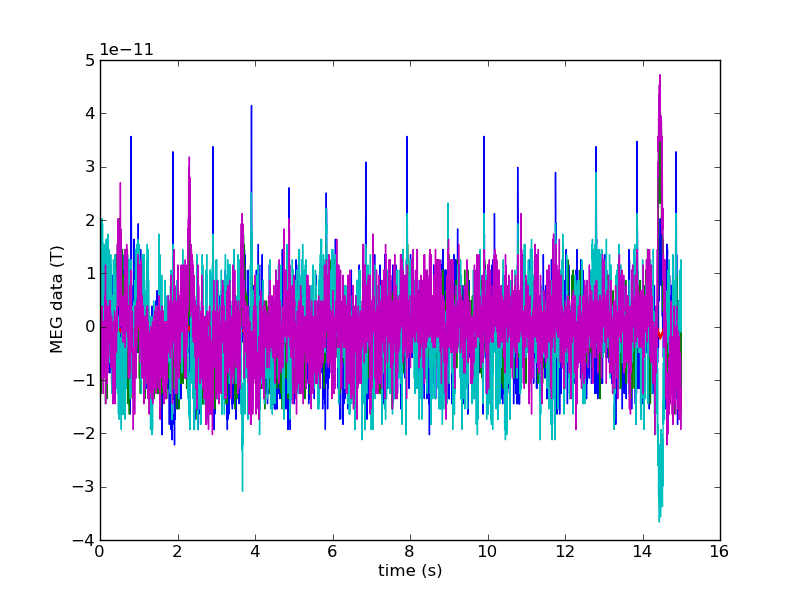
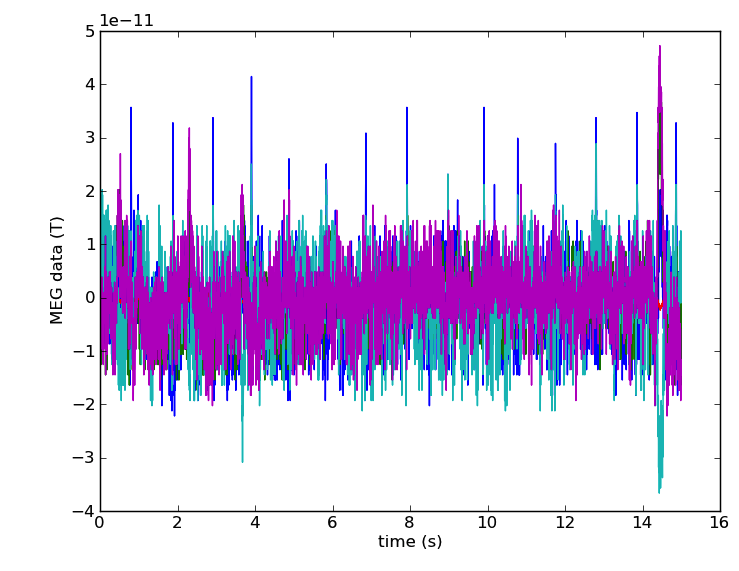
...

Changed region(s): [[0.0622, 0.0298, 0.9959, 0.9825]]

diff --git a/index.rst b/index.rst
@@ -120,21 +120,21 @@ Reading and Plotting Raw Data
 
 .. sourcecode:: python
 
+    import pylab as pl
     import mne
     raw = mne.fiff.Raw(fname)
 
     picks = mne.fiff.pick_types(raw.info, meg='mag')
-
     some_picks = picks[:5]  # take 5 first
     start, stop = raw.time_to_index(0, 15)  # read the first 15s of data
     data, times = raw[some_picks, start:(stop + 1)]
 
-    pylab.plot(times, data.T)
-    pylab.xlabel('time (s)')
-    pylab.ylabel('MEG data (T)')
+    pl.plot(times, data.T)
+    pl.xlabel('time (s)')
+    pl.ylabel('MEG data (T)')
 
 .. image:: images/raw_data.png
-   :scale: 50%
+   :scale: 45%
 
 ----
 
@@ -303,22 +303,18 @@ dSPM Inv. Sol. on Single Epochs
 .. sourcecode:: python
 
     event_id, tmin, tmax = 1, -0.2, 0.5
-    snr = 3.0
+    snr = 1.0
     lambda2 = 1.0 / snr ** 2
     method = 'dSPM'
 
     # Load data
-    inverse_operator = read_inverse_operator(fname_inv)
+    inverse_operator = mne.minimum_norm.read_inverse_operator(fname_inv)
     label = mne.read_label(fname_label)
-    raw = Raw(fname_raw)
+    raw = mne.fiff.Raw(fname_raw)
     events = mne.read_events(fname_event)
 
-    # Set up pick list
-    exclude = raw.info['bads'] + ['EEG 053']  # bads + 1 more
-
     # pick MEG channels
-    picks = pick_types(raw.info, meg=True, eeg=False, stim=False, eog=True,
-                       include=[], exclude=exclude)
+    picks = pick_types(raw.info, meg=True, eeg=False, stim=False, eog=True)
 
     # Read epochs
     epochs = mne.Epochs(raw, events, event_id, tmin, tmax, picks=picks,
